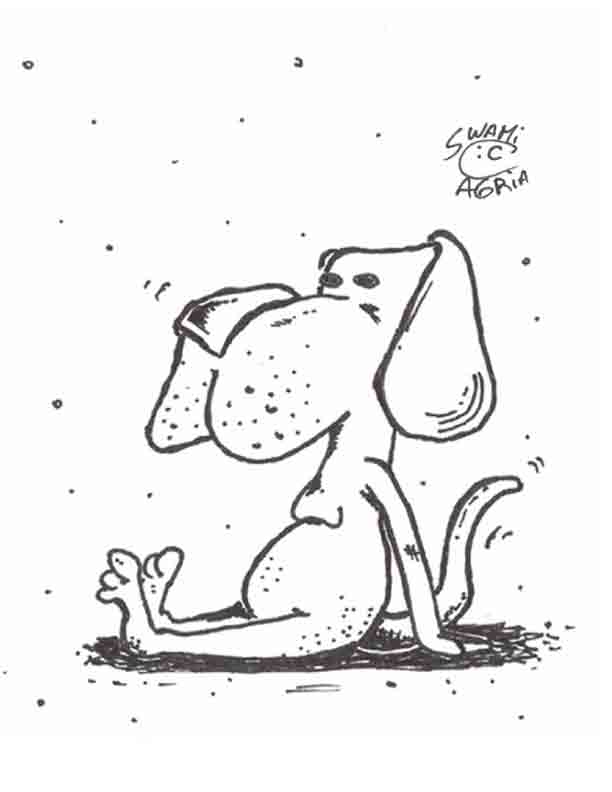
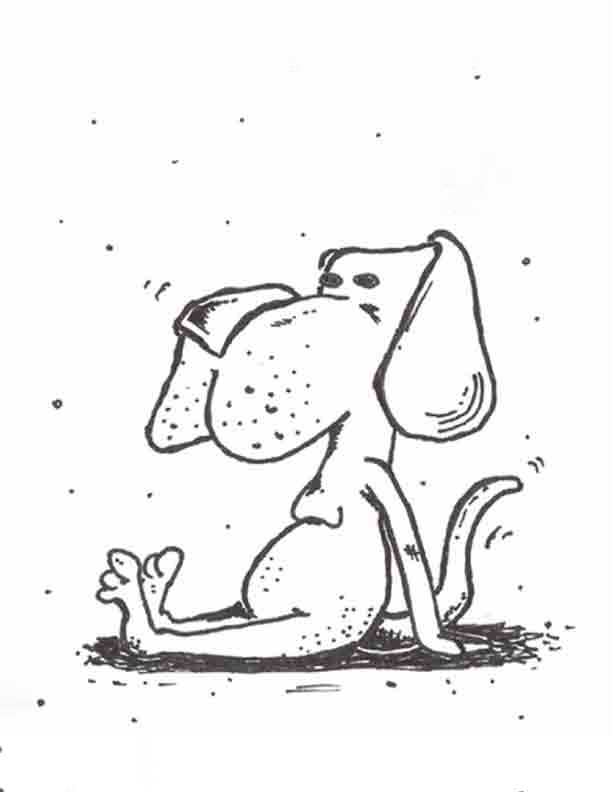
tamaño de imagenes ajustado

Changed region(s): [[0.7141, 0.1515, 0.8693, 0.2727], [0.4657, 0.0606, 0.4967, 0.0909], [0.031, 0.0606, 0.0621, 0.0909]]

diff --git a/index.html b/index.html
@@ -20,13 +20,13 @@
         <div id="carouselExampleFade" class="carousel slide carousel-fade mx-auto" data-bs-ride="carousel">
             <div class="carousel-inner">
                 <div class="carousel-item active">
-                    <img src="assets/img/carousel/cr01.jpg" class="d-block w-100" alt="...">
+                    <img src="assets/img/carousel/cr01.png" class="d-block w-100" alt="...">
                 </div>
                 <div class="carousel-item">
-                    <img src="assets/img/carousel/cr02.jpg" class="d-block w-100" alt="...">
+                    <img src="assets/img/carousel/cr02.png" class="d-block w-100" alt="...">
                 </div>
                 <div class="carousel-item">
-                    <img src="assets/img/carousel/cr03.jpg" class="d-block w-100" alt="...">
+                    <img src="assets/img/carousel/cr03.png" class="d-block w-100" alt="...">
                 </div>
             </div>
             <button class="carousel-control-prev" type="button" data-bs-target="#carouselExampleFade"
@@ -78,7 +78,7 @@
     <section>
         <div>
             <div class="card bg-dark text-white">
-                <img src="assets/img/Figuras/04Escultura.jpg" class="card-img" alt="...">
+                <img src="assets/img/card/card01.jpg" class="card-img" alt="...">
                 <div class="card-img-overlay">
                     <h5 class="card-title">Card title</h5>
                     <p class="card-text">This is a wider card with supporting text below as a natural lead-in to
@@ -89,7 +89,7 @@
         </div>
         <div>
             <div class="card bg-dark text-white">
-                <img src="assets/img/Dibujos/op02.jpg" class="card-img" alt="...">
+                <img src="assets/img/card/card03.jpg" class="card-img" alt="...">
                 <div class="card-img-overlay">
                     <h5 class="card-title">Card title</h5>
                     <p class="card-text">This is a wider card with supporting text below as a natural lead-in to
@@ -100,7 +100,7 @@
         </div>
         <div>
             <div class="card bg-dark text-white">
-                <img src="assets/img/Dibujos/Op5.jpeg" class="card-img" alt="...">
+                <img src="assets/img/card/card02.jpg" class="card-img" alt="...">
                 <div class="card-img-overlay">
                     <h5 class="card-title">Card title</h5>
                     <p class="card-text">This is a wider card with supporting text below as a natural lead-in to

diff --git a/assets/css/style.css b/assets/css/style.css
@@ -1,7 +1,4 @@
-body{
-    background-color:rgb(195, 231, 14) ;
-    
-}
+
 .contenedor {
     display: flex;
     justify-content: center;
@@ -14,7 +11,7 @@ body{
 
 .imagen-contenedor img {
     width: 100%;
-    height: auto;
+    height: 500px;
     display: block;
     cursor: pointer;
 }
